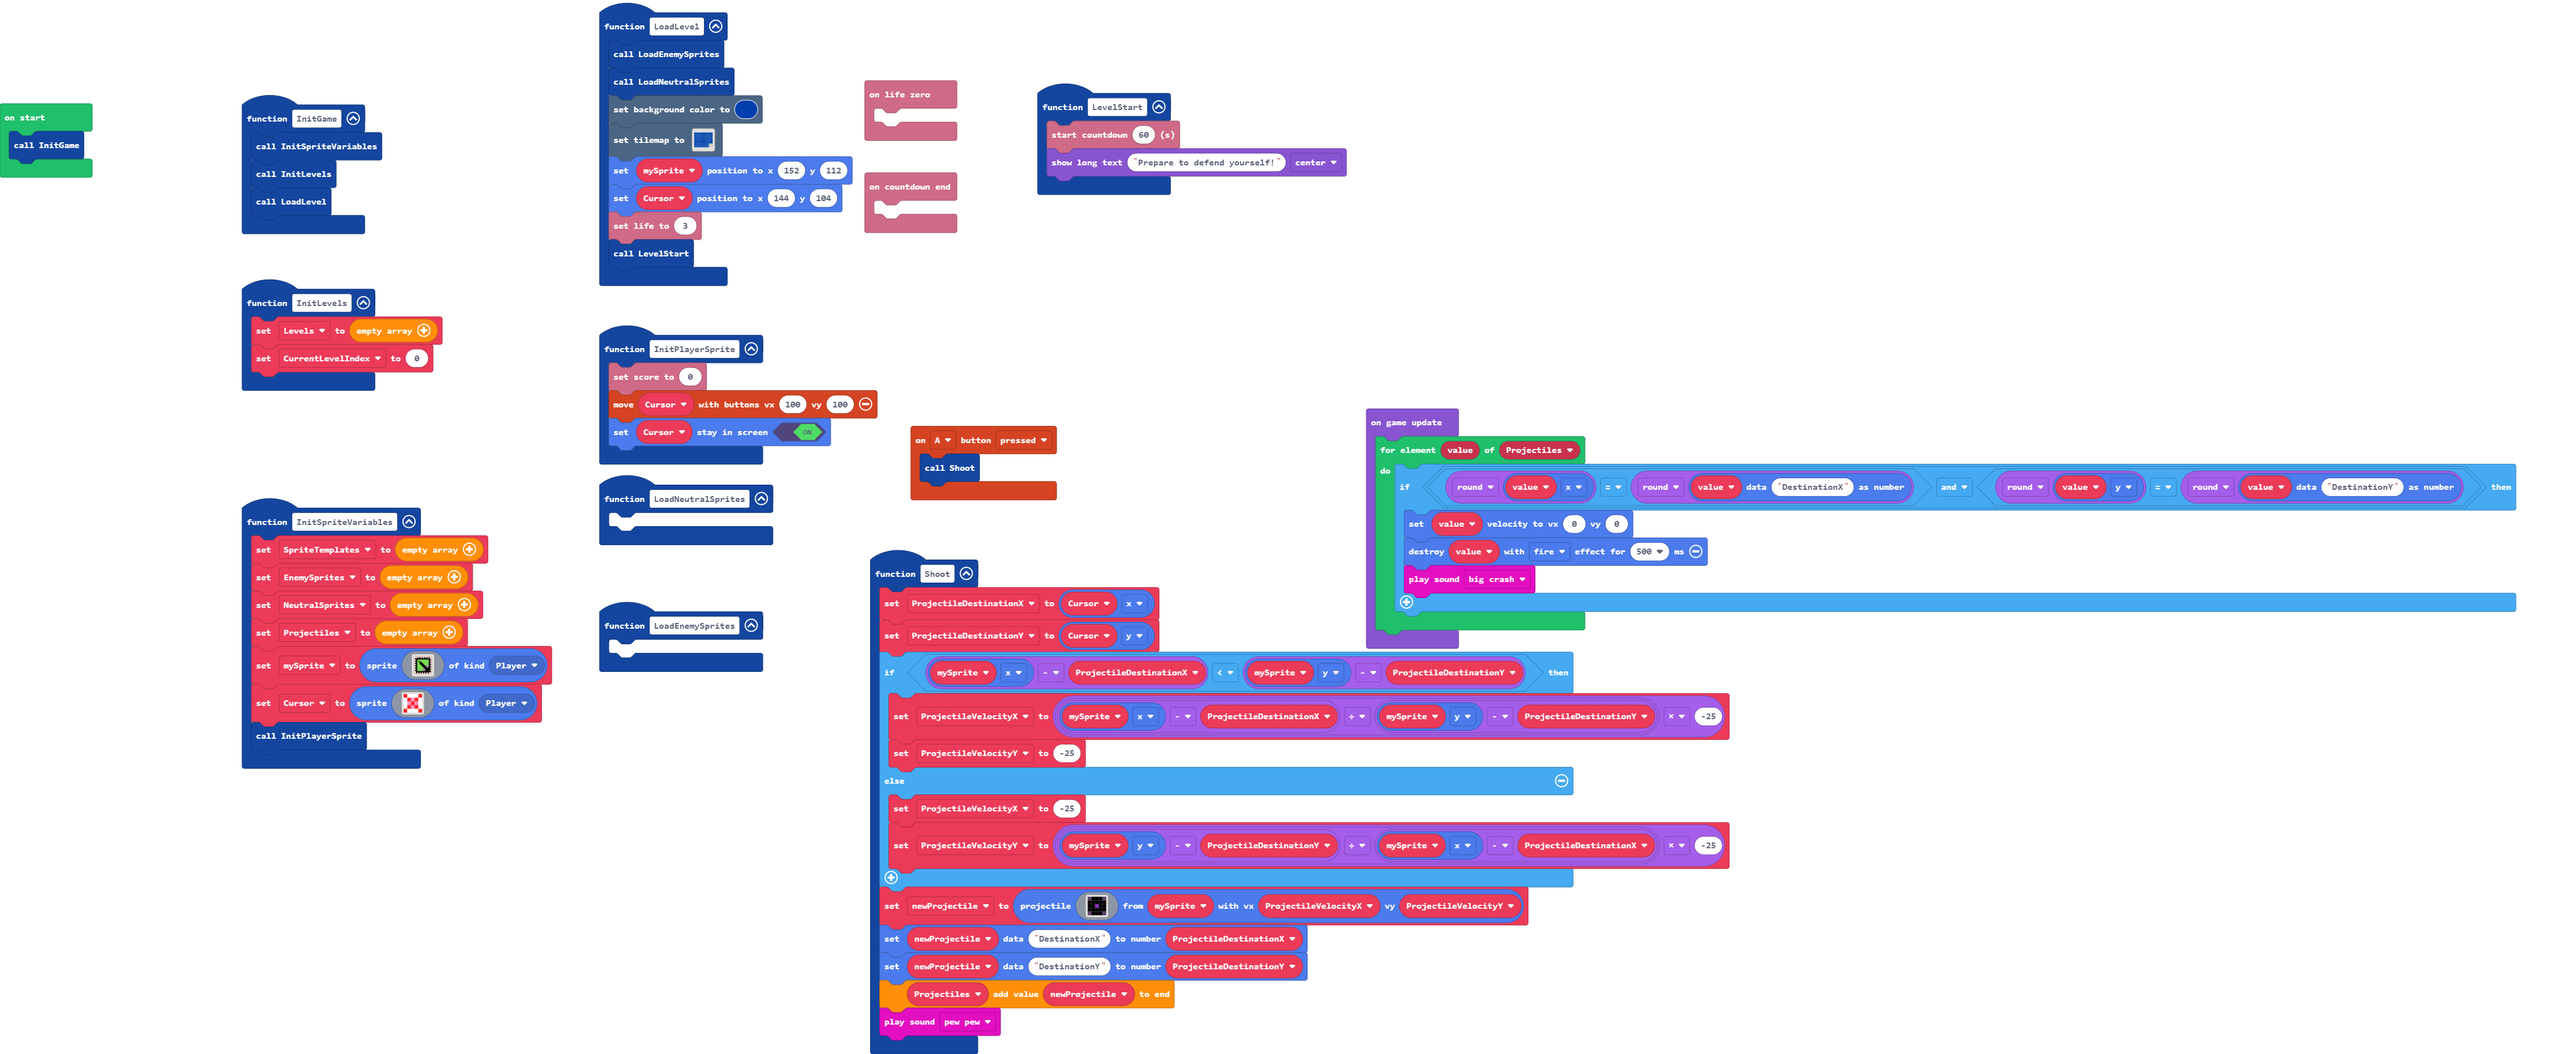
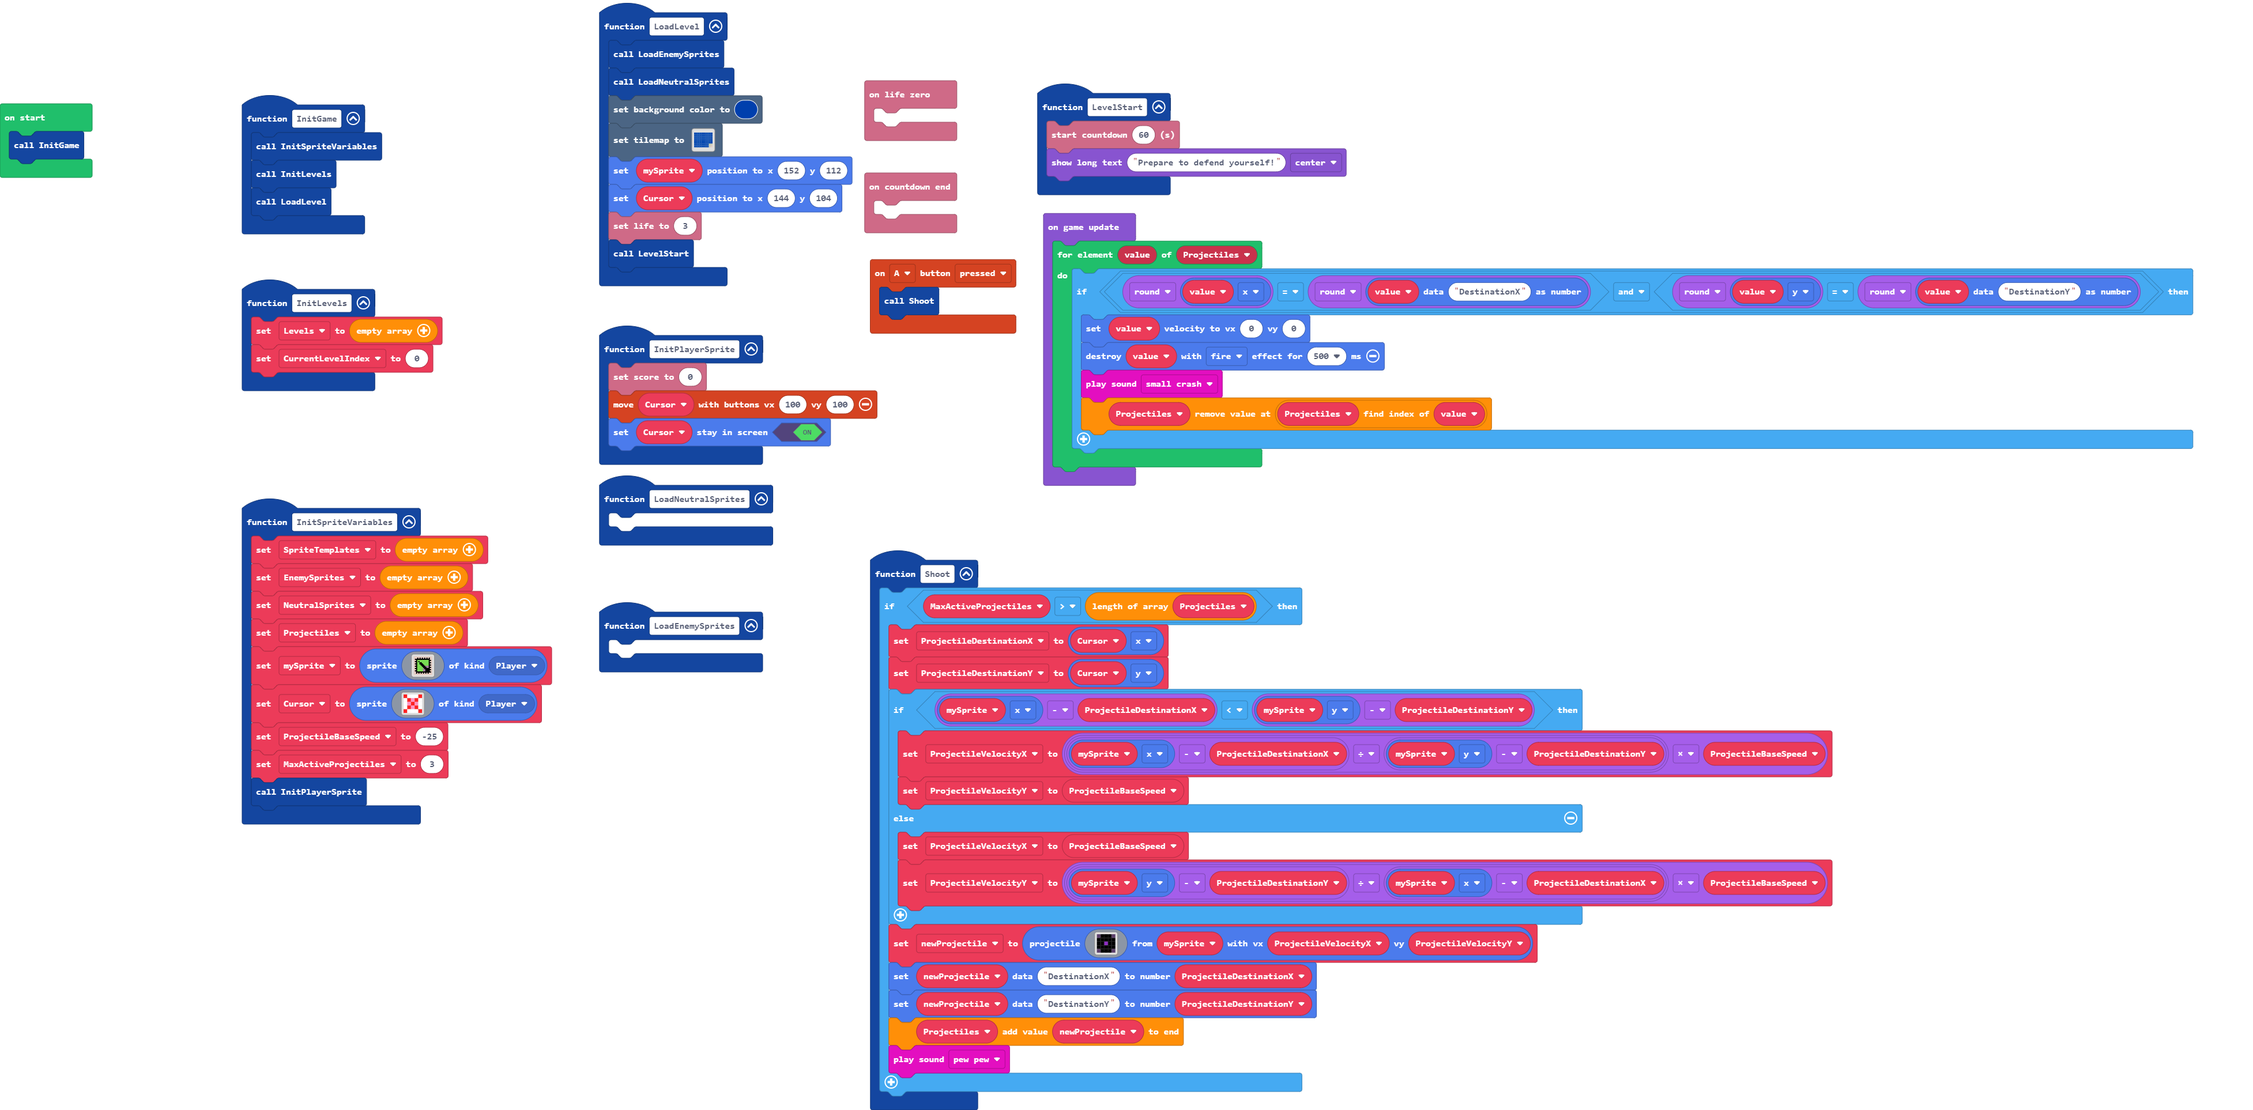
Limited the active number of shots and set a projectile speed variable.

diff --git a/main.ts b/main.ts
@@ -29,20 +29,22 @@ info.onCountdownEnd(function () {
 	
 })
 function Shoot () {
-    ProjectileDestinationX = Cursor.x
-    ProjectileDestinationY = Cursor.y
-    if (mySprite.x - ProjectileDestinationX < mySprite.y - ProjectileDestinationY) {
-        ProjectileVelocityX = (mySprite.x - ProjectileDestinationX) / (mySprite.y - ProjectileDestinationY) * -25
-        ProjectileVelocityY = -25
-    } else {
-        ProjectileVelocityX = -25
-        ProjectileVelocityY = (mySprite.y - ProjectileDestinationY) / (mySprite.x - ProjectileDestinationX) * -25
+    if (MaxActiveProjectiles > Projectiles.length) {
+        ProjectileDestinationX = Cursor.x
+        ProjectileDestinationY = Cursor.y
+        if (mySprite.x - ProjectileDestinationX < mySprite.y - ProjectileDestinationY) {
+            ProjectileVelocityX = (mySprite.x - ProjectileDestinationX) / (mySprite.y - ProjectileDestinationY) * ProjectileBaseSpeed
+            ProjectileVelocityY = ProjectileBaseSpeed
+        } else {
+            ProjectileVelocityX = ProjectileBaseSpeed
+            ProjectileVelocityY = (mySprite.y - ProjectileDestinationY) / (mySprite.x - ProjectileDestinationX) * ProjectileBaseSpeed
+        }
+        newProjectile = sprites.createProjectileFromSprite(assets.image`Cannonball`, mySprite, ProjectileVelocityX, ProjectileVelocityY)
+        sprites.setDataNumber(newProjectile, "DestinationX", ProjectileDestinationX)
+        sprites.setDataNumber(newProjectile, "DestinationY", ProjectileDestinationY)
+        Projectiles.push(newProjectile)
+        music.pewPew.play()
     }
-    newProjectile = sprites.createProjectileFromSprite(assets.image`Cannonball`, mySprite, ProjectileVelocityX, ProjectileVelocityY)
-    sprites.setDataNumber(newProjectile, "DestinationX", ProjectileDestinationX)
-    sprites.setDataNumber(newProjectile, "DestinationY", ProjectileDestinationY)
-    Projectiles.push(newProjectile)
-    music.pewPew.play()
 }
 info.onLifeZero(function () {
 	
@@ -64,17 +66,21 @@ function InitSpriteVariables () {
     Projectiles = []
     mySprite = sprites.create(assets.image`Base`, SpriteKind.Player)
     Cursor = sprites.create(assets.image`Crosshair`, SpriteKind.Player)
+    ProjectileBaseSpeed = -25
+    MaxActiveProjectiles = 3
     InitPlayerSprite()
 }
 let NeutralSprites: number[] = []
 let EnemySprites: number[] = []
 let SpriteTemplates: number[] = []
-let Projectiles: Sprite[] = []
 let newProjectile: Sprite = null
 let ProjectileVelocityY = 0
+let ProjectileBaseSpeed = 0
 let ProjectileVelocityX = 0
 let ProjectileDestinationY = 0
 let ProjectileDestinationX = 0
+let Projectiles: Sprite[] = []
+let MaxActiveProjectiles = 0
 let Cursor: Sprite = null
 let mySprite: Sprite = null
 let CurrentLevelIndex = 0
@@ -85,7 +91,8 @@ game.onUpdate(function () {
         if (Math.round(value.x) == Math.round(sprites.readDataNumber(value, "DestinationX")) && Math.round(value.y) == Math.round(sprites.readDataNumber(value, "DestinationY"))) {
             value.setVelocity(0, 0)
             value.destroy(effects.fire, 500)
-            music.bigCrash.play()
+            music.smallCrash.play()
+            Projectiles.removeAt(Projectiles.indexOf(value))
         }
     }
 })
